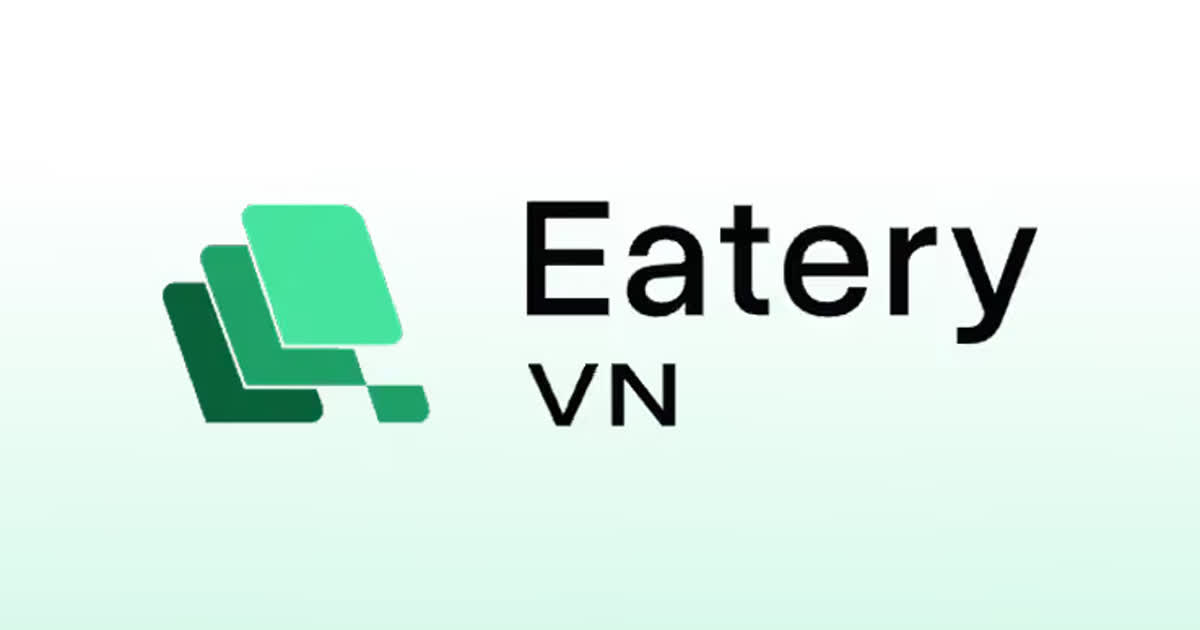
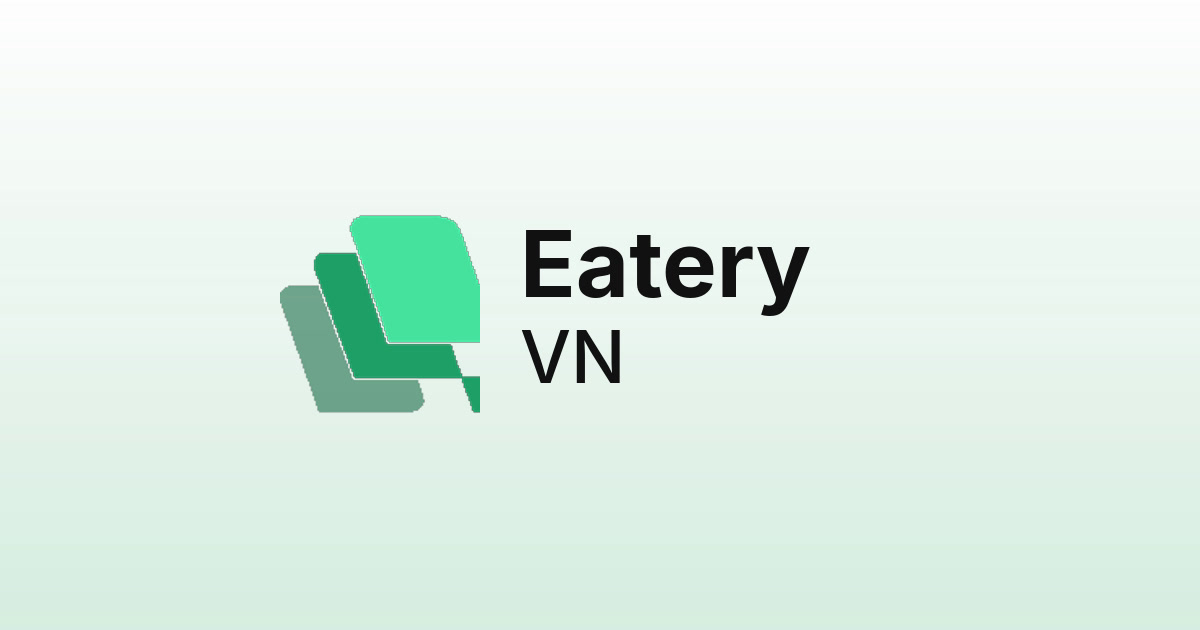
Replace marketing OG image with Eatery VN brand lockup.
Use the provided OG artwork (logo + wordmark on mint gradient) at
1200×630 for og:image / Twitter share previews.

Changed region(s): [[0.4317, 0.3016, 0.8633, 0.6937], [0.1233, 0.3016, 0.4008, 0.6937]]

diff --git a/apps/web/src/lib/marketing-assets.ts b/apps/web/src/lib/marketing-assets.ts
@@ -37,7 +37,10 @@ const IMAGE_ALT_BY_FILE: Record<string, Record<SupportedLocale, string>> = {
   'eatery-businesses': { vi: 'Nhiều cửa hàng trên Eatery', en: 'Multiple stores on Eatery' },
   'eatery-qr': { vi: 'Mã QR Eatery', en: 'Eatery QR code' },
   '404-image': { vi: 'Trang không tìm thấy', en: 'Page not found illustration' },
-  'og-eateryvn': { vi: 'Eatery VN', en: 'Eatery VN' },
+  'og-eateryvn': {
+    vi: 'Logo Eatery VN với ba hình lá xanh xếp chồng cạnh chữ Eatery VN trên nền gradient mint',
+    en: 'Eatery VN logo featuring three overlapping green leaf-like shapes next to the text Eatery VN on a light mint gradient background',
+  },
 }
 
 function basenameFromSrc(src: string): string {
